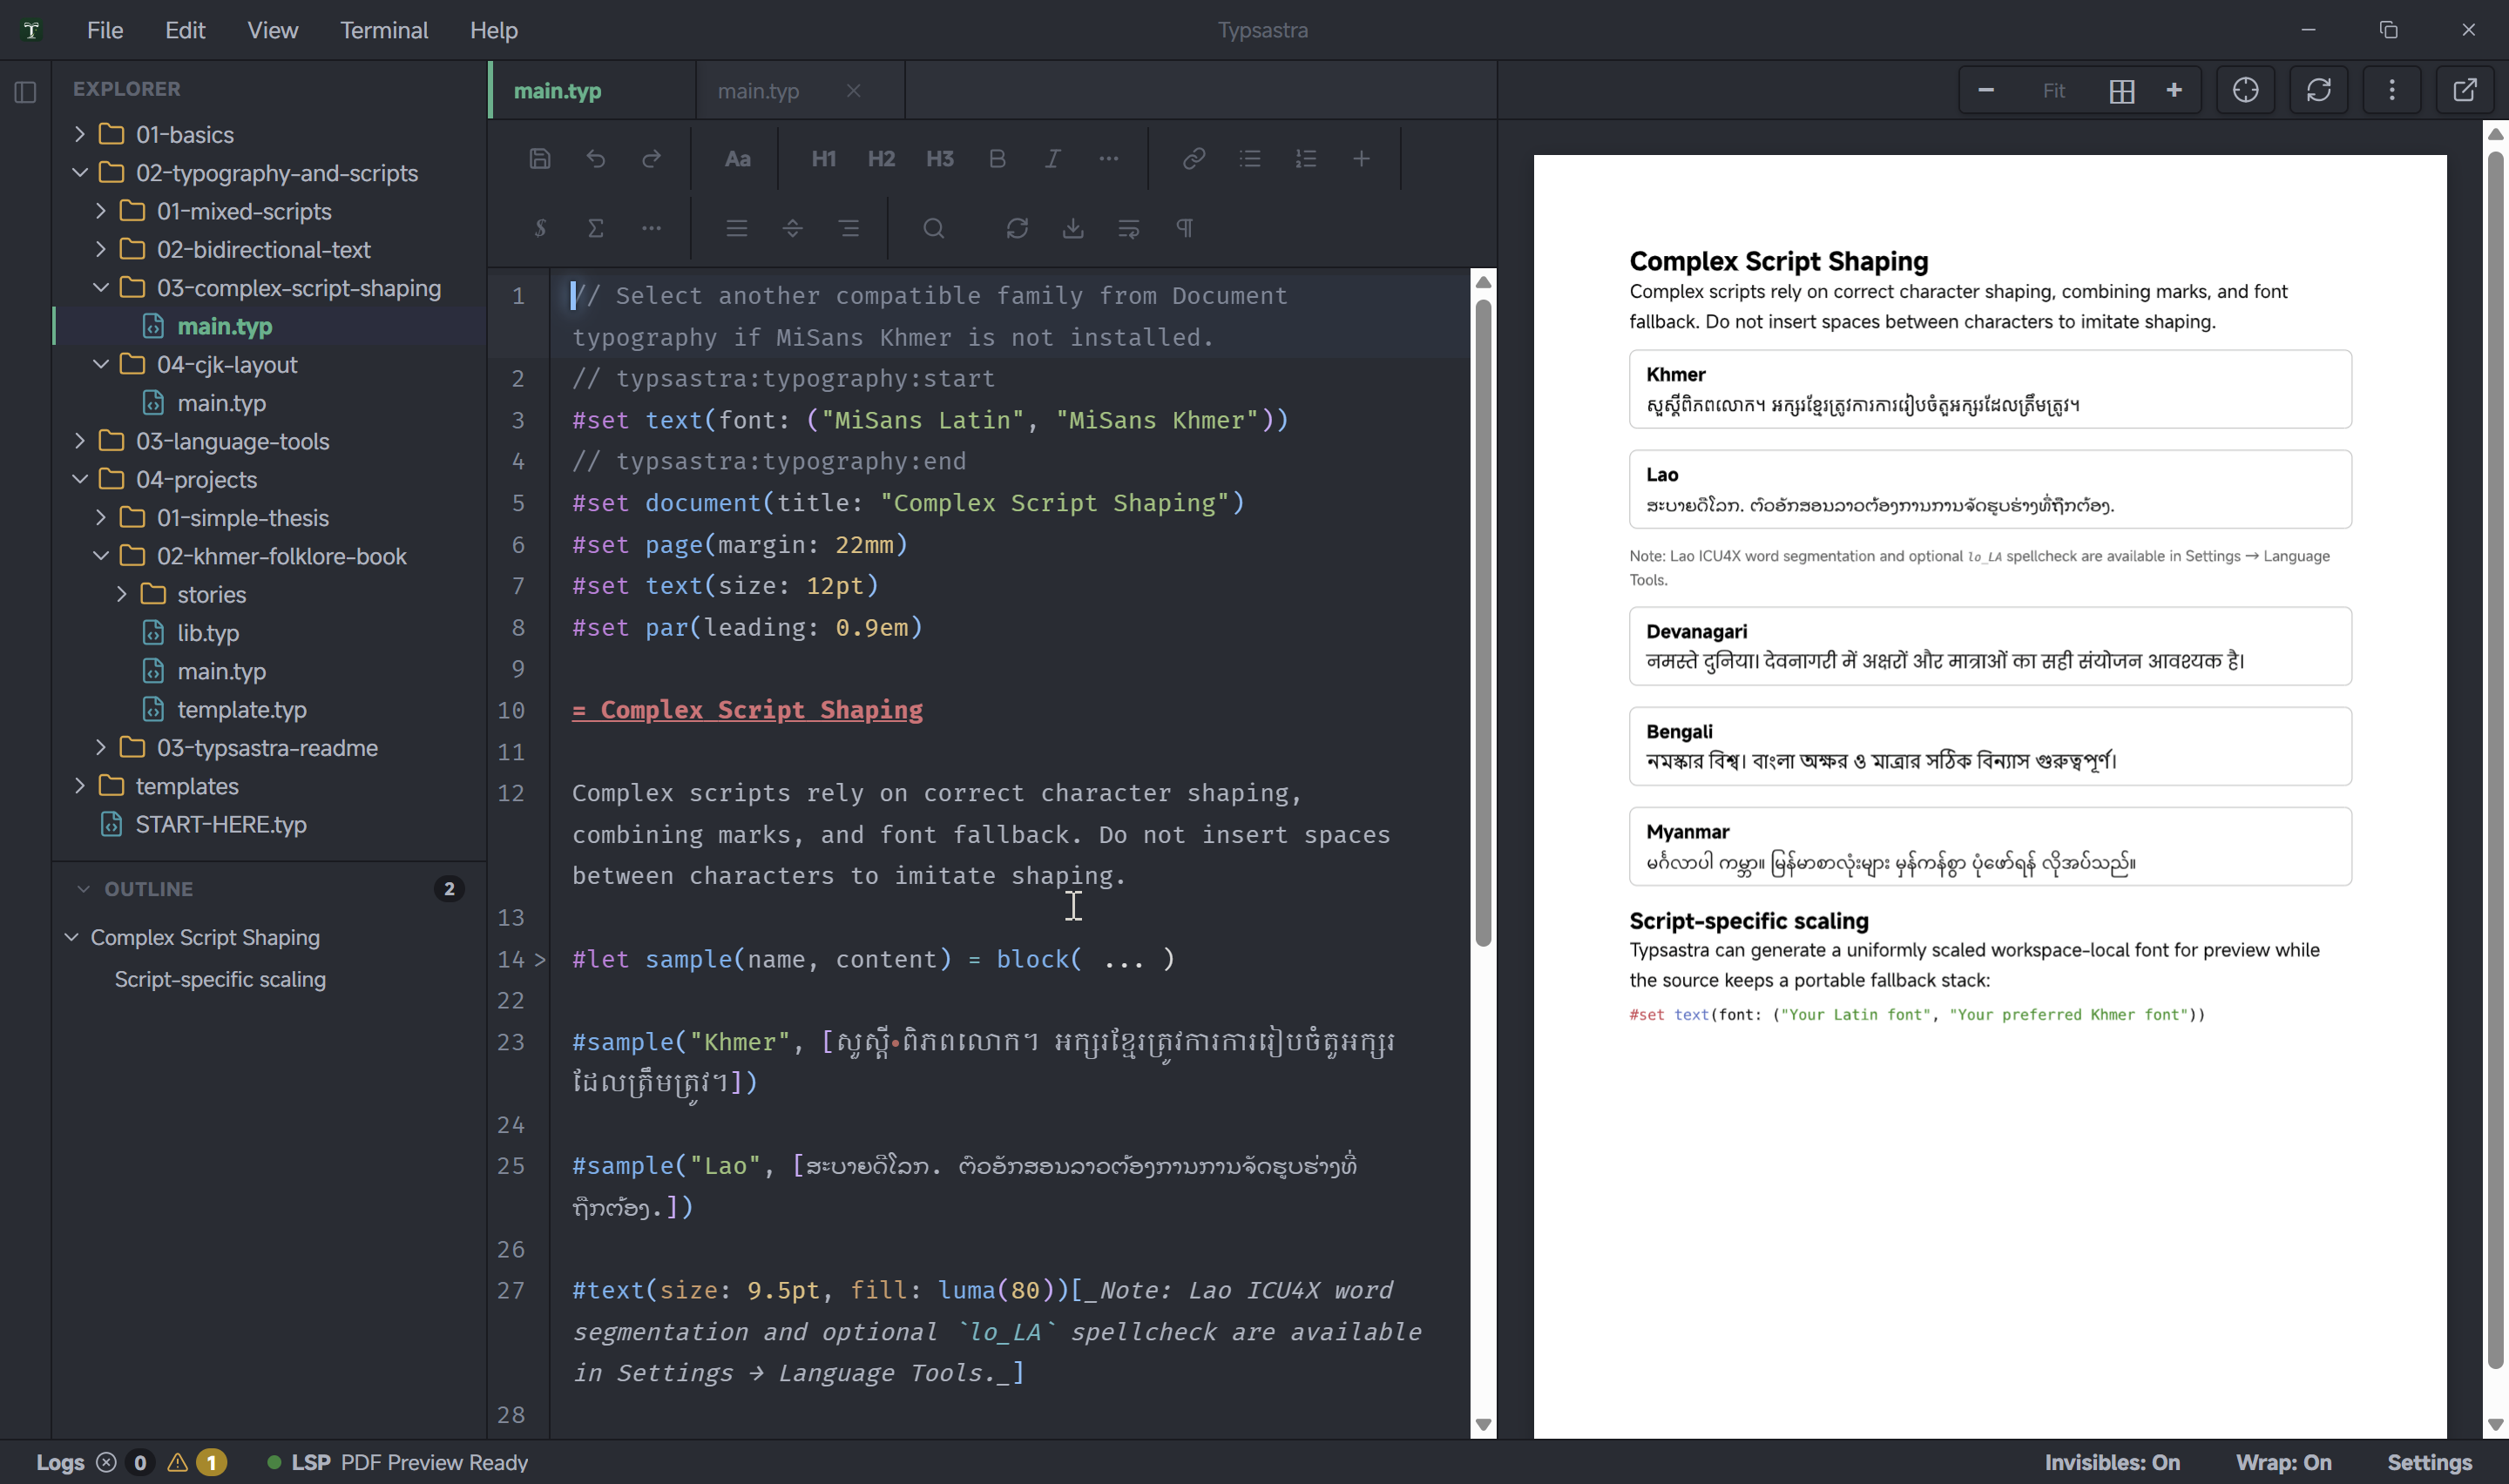
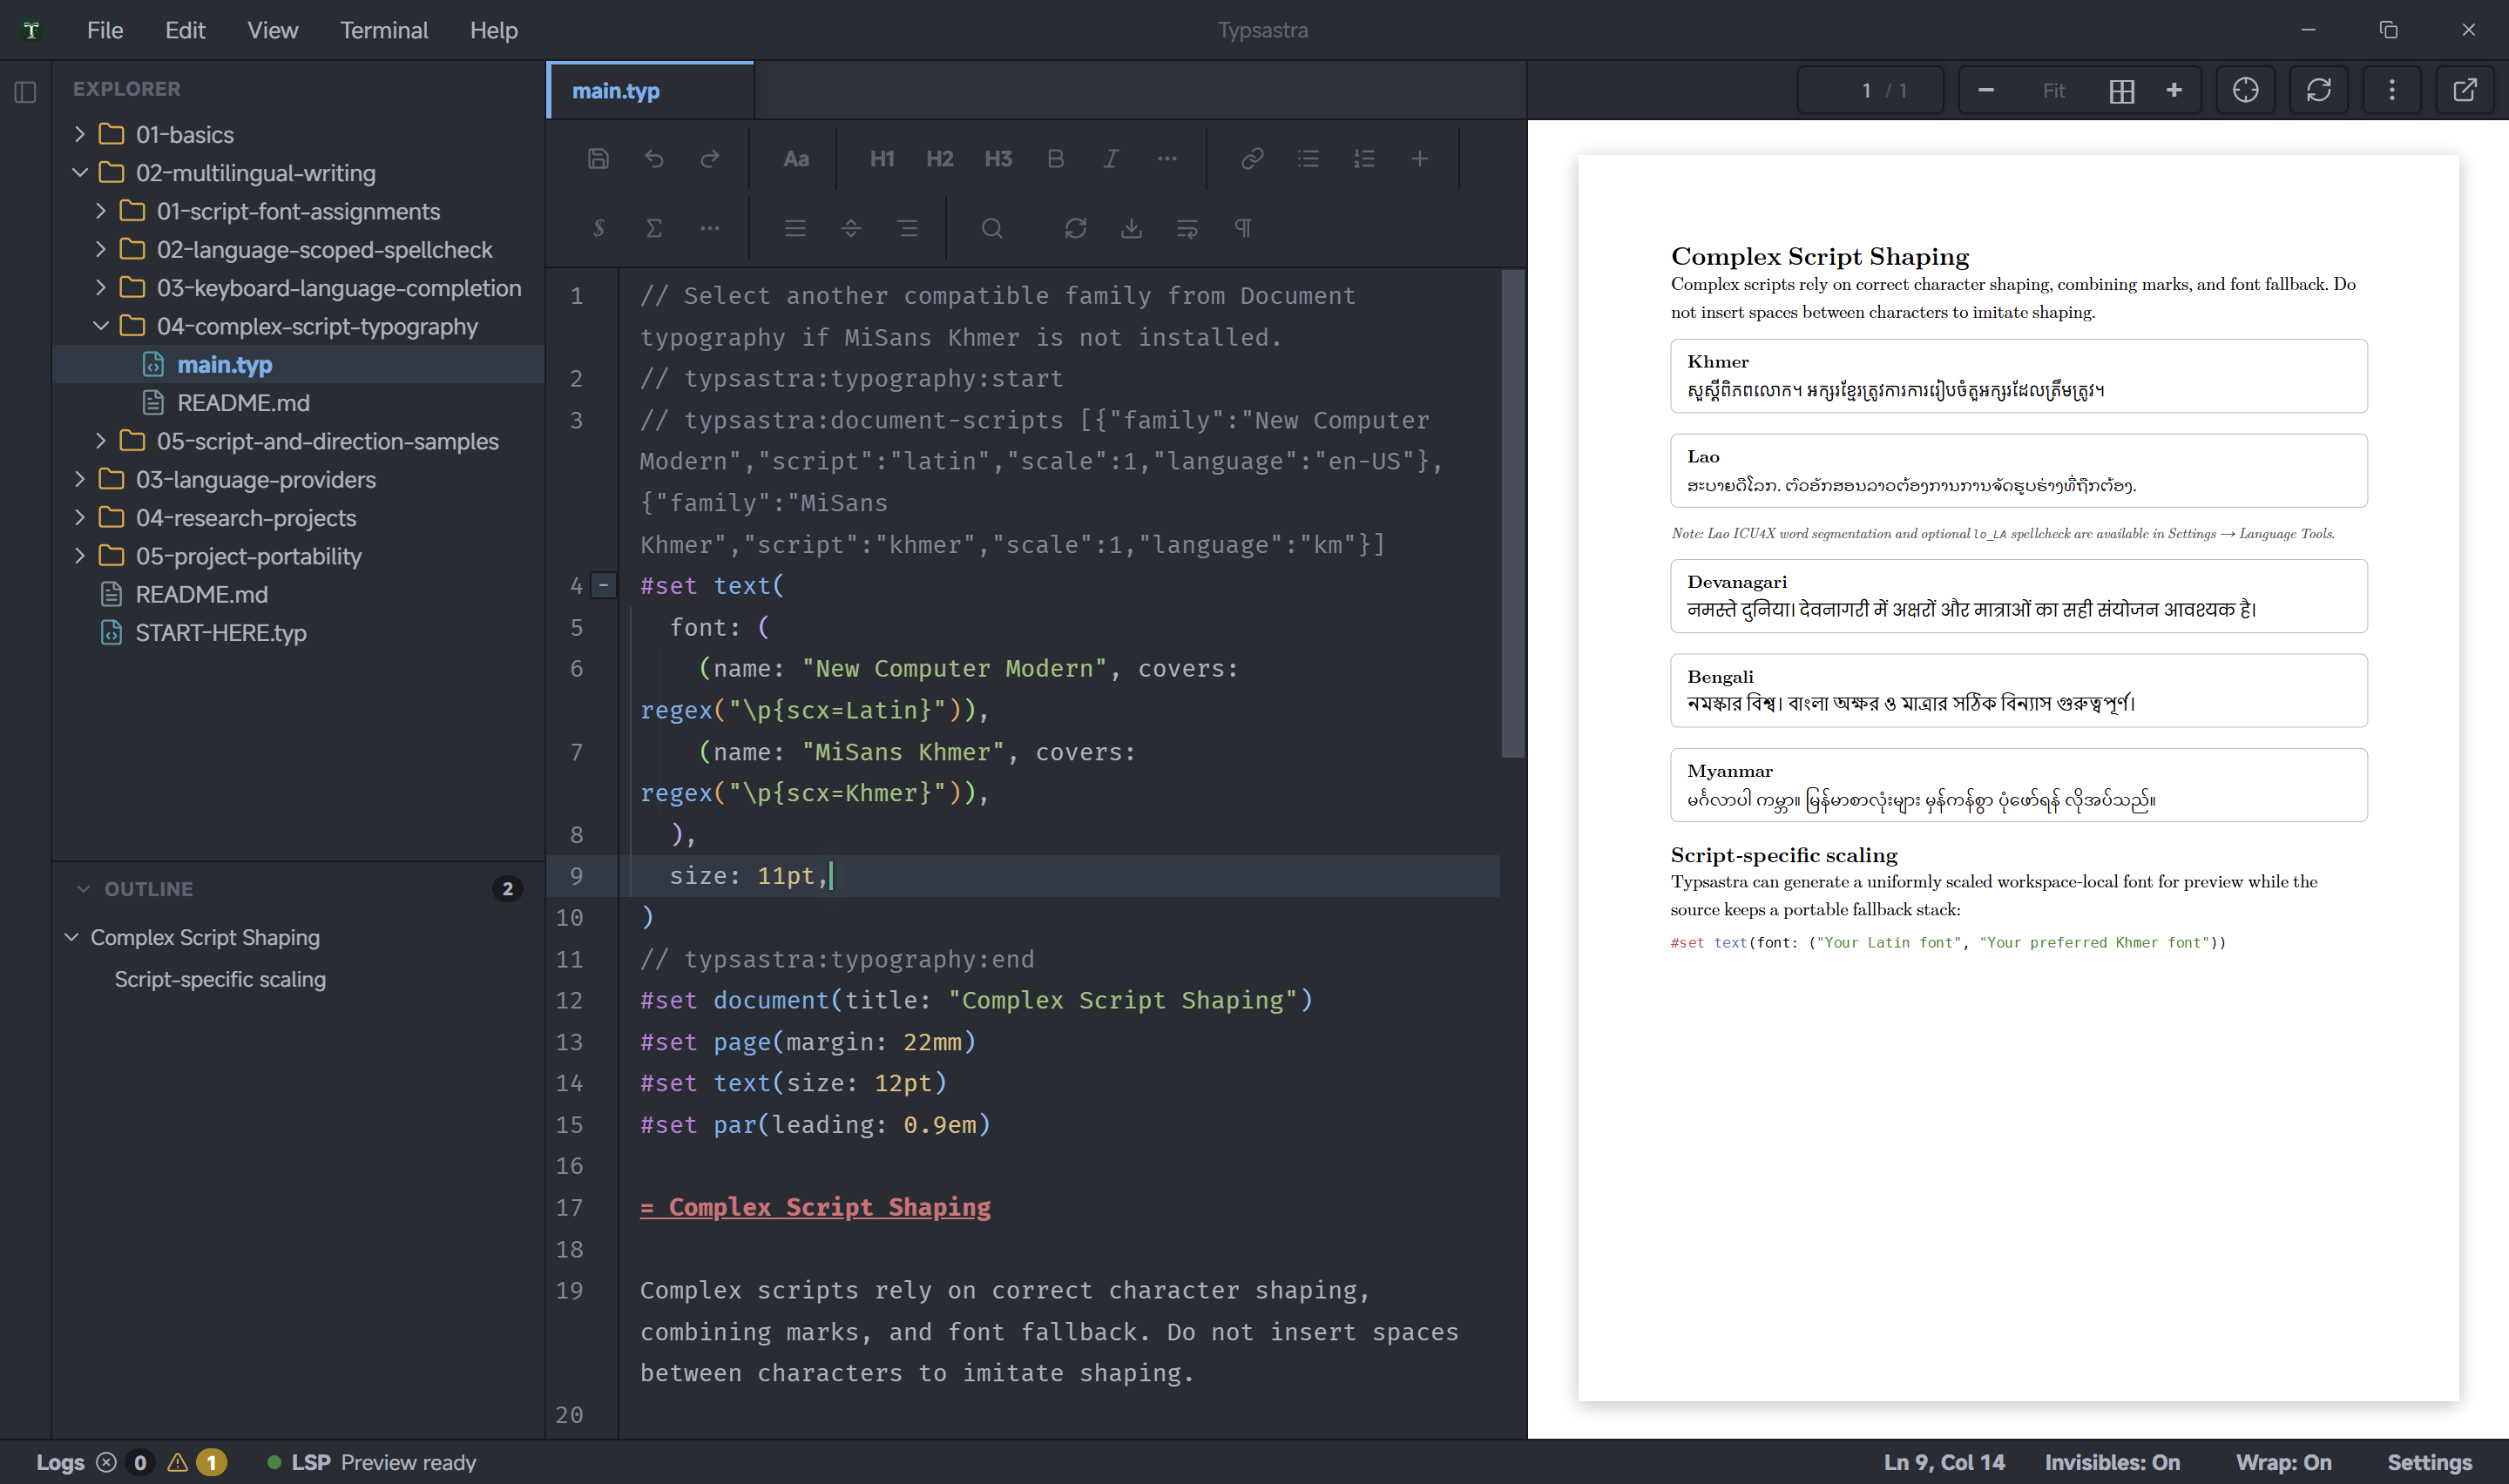
fix(lsp): suppress noisy preview status updates while typing
- keep background document synchronization silent
- only report initial and manual preview compilation
- reduce preview status messages to minimal user-facing states

diff --git a/src/appController.ts b/src/appController.ts
@@ -2912,6 +2912,7 @@ export class TypsastraWorkspaceController {
       });
       return;
     }
+    const reportRenderStatus = force || !this.previewFrame.currentUrl;
     if (force) {
       this.previewFrame.setLoading("Recompiling PDF preview...");
     }
@@ -2936,7 +2937,9 @@ export class TypsastraWorkspaceController {
       source: "preview scheduler",
       message: `Render generation ${generation} started: mode=${this.settingsController.value.preview.renderMode}; active=${this.activeFilePath}; sourceUtf16=${contents.length}.`
     });
-    this.setLspStatus({ kind: "syncing", message: "Compiling PDF preview..." });
+    if (reportRenderStatus) {
+      this.setLspStatus({ kind: "syncing", message: "Compiling preview" });
+    }
     if (!force && !this.previewFrame.currentUrl) {
       this.previewFrame.setLoading("Compiling PDF preview...");
     }
@@ -2996,7 +2999,6 @@ export class TypsastraWorkspaceController {
         });
         return;
       }
-      this.setLspStatus({ kind: "preview-ready", message: "PDF Preview Ready" });
       const sourceMapTaskId = previewSessionIdentity(
         previewPath,
         previewRefreshStyle(this.settingsController.value.preview.renderMode)
@@ -3007,6 +3009,9 @@ export class TypsastraWorkspaceController {
       this.pdfPreviewSourceMapTaskId = sourceMapTaskId;
       this.lastPdfBase64 = pdf.data!;
       await this.previewFrame.loadPdfData(pdf.data!, previewPath);
+      if (reportRenderStatus) {
+        this.setLspStatus({ kind: "preview-ready", message: "Preview ready" });
+      }
       this.appendDeveloperLog({ kind: "info", source: "preview scheduler", message: `Render generation ${generation}: PDF presentation complete.` });
       void this.warmPdfSourceMapSession(generation);
       await this.logMemoryDiagnostics(`render ${generation}: after PDF cleanup/presentation`);
@@ -3294,7 +3299,6 @@ export class TypsastraWorkspaceController {
       this.pendingLspSyncPath = this.activeFilePath;
       this.pendingLspSyncText = rawText;
       this.pendingLspSyncVersion = version;
-      this.setLspStatus({ kind: "sync-pending", message: "Preview update queued" });
 
       if (this.pendingLspSyncTimer) {
         window.clearTimeout(this.pendingLspSyncTimer);
@@ -3522,7 +3526,6 @@ export class TypsastraWorkspaceController {
     this.pendingLspSyncText = null;
     this.pendingLspSyncVersion = null;
 
-    this.setLspStatus({ kind: "syncing", message: "Syncing preview" });
     this.previewSyncController.reset();
     if (this.workspaceRootPath && this.previewStandalone && this.settingsController.value.preview.renderMode === "on-type") {
       let target = await invoke<PreviewTarget>("resolve_preview_main", {
@@ -3552,11 +3555,6 @@ export class TypsastraWorkspaceController {
     await this.openDocumentIfNeeded(lspUri, lspContent, version);
     if (!this.isLspSyncVersionCurrent(path, version)) return;
     await this.lspClient.notifyTextChange(lspUri, lspContent, version);
-    window.setTimeout(() => {
-      if (this.lspReady && !this.pendingLspSyncTimer && this.pendingLspSyncText === null) {
-        this.setLspStatus({ kind: "preview-ready", message: "Preview update sent" });
-      }
-    }, 250);
   }
 
 